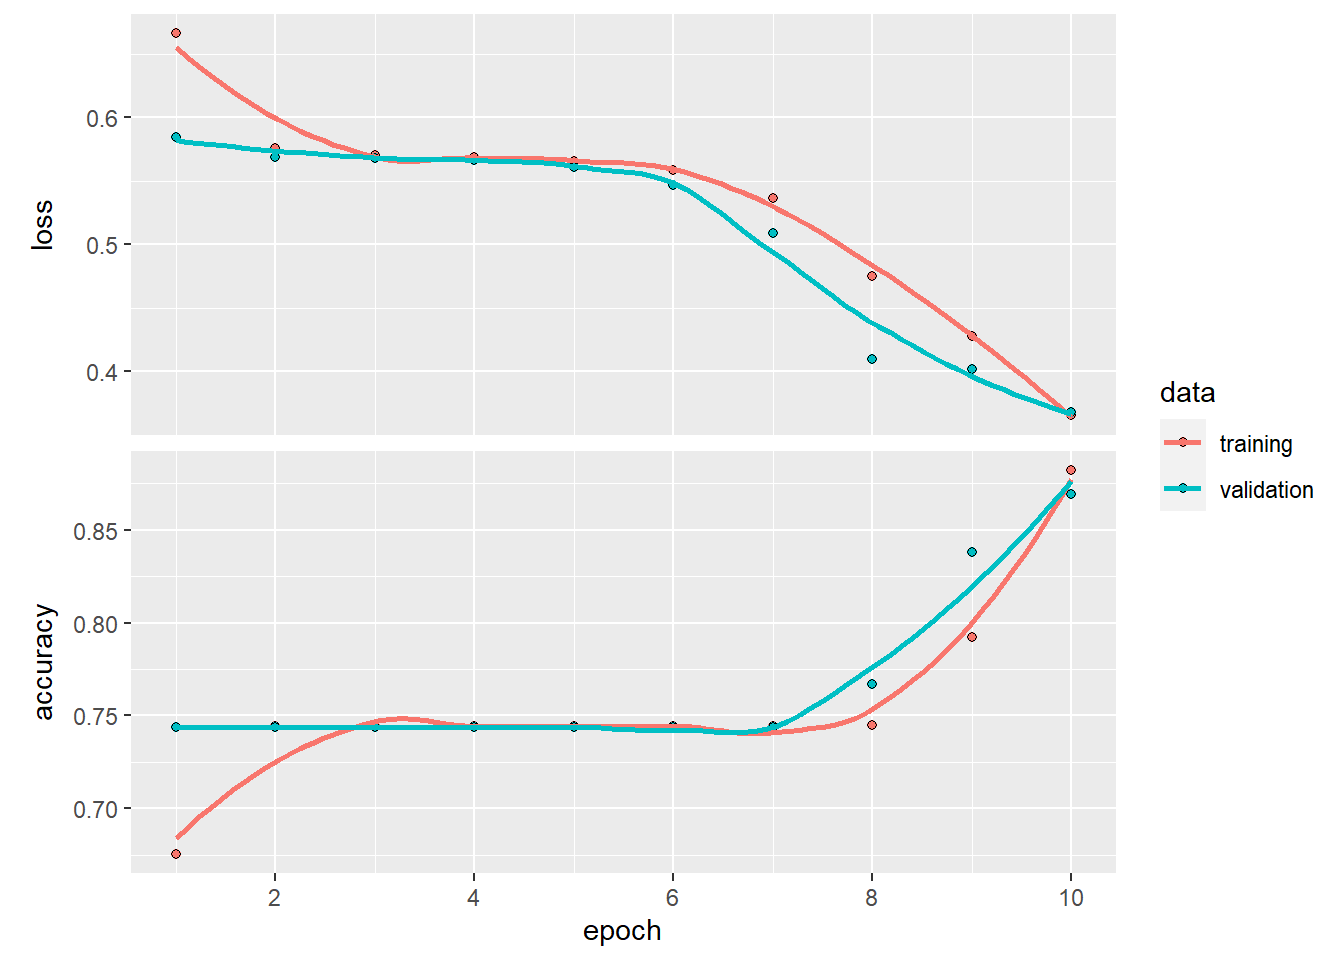
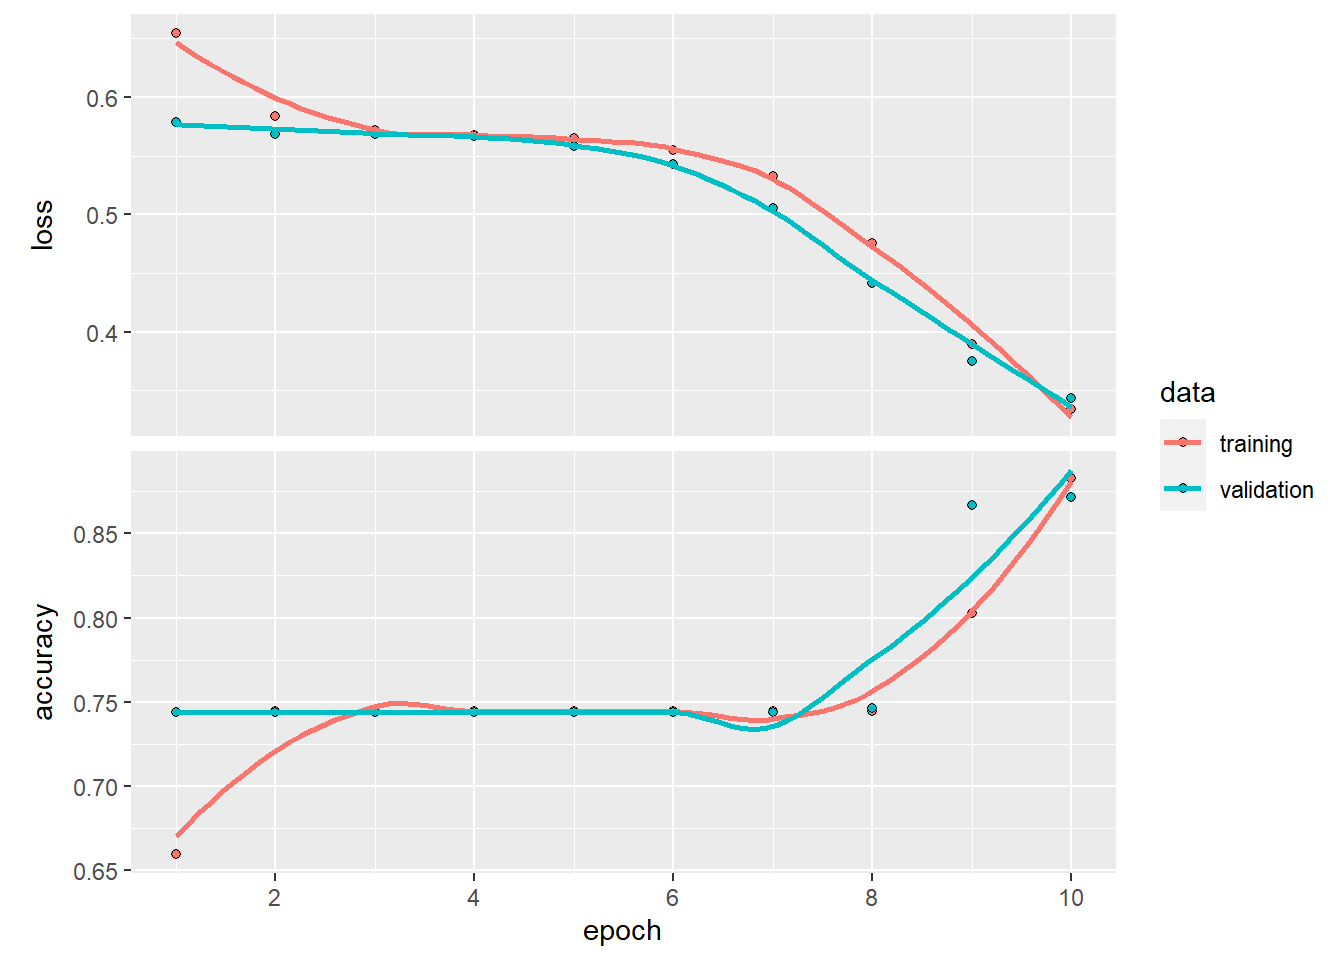
Juhu fertig

diff --git a/_site/posts/DataScience2_Abgabe/Abgabe.html b/_site/posts/DataScience2_Abgabe/Abgabe.html
@@ -337,6 +337,8 @@ code span.wa { color: #60a0b0; font-weight: bold; font-style: italic; } /* Warni
 <span id="cb5-5"><a href="#cb5-5" aria-hidden="true" tabindex="-1"></a>  <span class="fu">anti_join</span>(stop_words, <span class="at">by =</span> <span class="fu">c</span>(<span class="st">"words"</span> <span class="ot">=</span> <span class="st">"word"</span>))</span></code><button title="Copy to Clipboard" class="code-copy-button"><i class="bi"></i></button></pre></div>
 </div>
 <div class="cell">
+<details>
+<summary>Show the Code</summary>
 <div class="sourceCode cell-code" id="cb6"><pre class="sourceCode r code-with-copy"><code class="sourceCode r"><span id="cb6-1"><a href="#cb6-1" aria-hidden="true" tabindex="-1"></a><span class="do">## die 15 häufigsten Wörter</span></span>
 <span id="cb6-2"><a href="#cb6-2" aria-hidden="true" tabindex="-1"></a>df_hate <span class="sc">%&gt;%</span></span>
 <span id="cb6-3"><a href="#cb6-3" aria-hidden="true" tabindex="-1"></a>  <span class="fu">count</span>(words, <span class="at">sort =</span> <span class="cn">TRUE</span>) <span class="sc">%&gt;%</span></span>
@@ -350,6 +352,7 @@ code span.wa { color: #60a0b0; font-weight: bold; font-style: italic; } /* Warni
 <span id="cb6-11"><a href="#cb6-11" aria-hidden="true" tabindex="-1"></a>      <span class="at">y =</span> <span class="st">"Anzahl"</span>,</span>
 <span id="cb6-12"><a href="#cb6-12" aria-hidden="true" tabindex="-1"></a>      <span class="at">title =</span> <span class="st">"Die 15 häufigsten Wörter"</span>) <span class="sc">+</span></span>
 <span id="cb6-13"><a href="#cb6-13" aria-hidden="true" tabindex="-1"></a>  <span class="fu">theme_minimal</span>()</span></code><button title="Copy to Clipboard" class="code-copy-button"><i class="bi"></i></button></pre></div>
+</details>
 <div class="cell-output-display">
 <p><img src="Abgabe_files/figure-html/unnamed-chunk-4-1.png" class="img-fluid" width="672"></p>
 </div>
@@ -487,7 +490,7 @@ code span.wa { color: #60a0b0; font-weight: bold; font-style: italic; } /* Warni
 <section id="wortbeziehungen-bigram" class="level3">
 <h3 class="anchored" data-anchor-id="wortbeziehungen-bigram">2.3 Wortbeziehungen (Bigram)</h3>
 <p>Die am häufigsten vorkommenden Wortpaare sind in folgender interaktiven Graphik zu sehen.</p>
-<p><em>Navigation:</em> rechte Maustaste: bewegen; Mausrad: zoomen</p>
+<p><em>Navigation:</em> linke Maustaste: bewegen; Mausrad: zoomen</p>
 <div class="cell">
 <details>
 <summary>Show the Code</summary>
@@ -620,7 +623,7 @@ code span.wa { color: #60a0b0; font-weight: bold; font-style: italic; } /* Warni
 </section>
 <section id="rekurrentes-neuronales-netzwerk" class="level2">
 <h2 class="anchored" data-anchor-id="rekurrentes-neuronales-netzwerk">4 Rekurrentes Neuronales Netzwerk</h2>
-<p>Das LSTM (Long Short-Term Memory) Modell ist eine spezielle Form von Rekurrenten Neuronalen Netzwerken (RNNs), die besonders gut für die Verarbeitung von Sequenzdaten wie Texten geeignet ist.</p>
+<p>Das LSTM (Long Short-Term Memory) Modell ist eine spezielle Form der Rekurrenten Neuronalen Netzwerke (RNNs), die besonders gut für die Verarbeitung von Sequenzdaten wie Texten geeignet sind.</p>
 <section id="lstm-modell-erstellen" class="level3">
 <h3 class="anchored" data-anchor-id="lstm-modell-erstellen">4.1 LSTM Modell erstellen</h3>
 <div class="cell">
@@ -759,74 +762,74 @@ ________________________________________________________________________________
 <div class="cell-output cell-output-stdout">
 <pre><code>Epoch 1/10
 
-1/4 [======&gt;.......................] - ETA: 16s - loss: 0.6931 - accuracy: 0.5225
-2/4 [==============&gt;...............] - ETA: 1s - loss: 0.6563 - accuracy: 0.6309 
-3/4 [=====================&gt;........] - ETA: 0s - loss: 0.6766 - accuracy: 0.6660
-4/4 [==============================] - ETA: 0s - loss: 0.6660 - accuracy: 0.6753
-4/4 [==============================] - 8s 828ms/step - loss: 0.6660 - accuracy: 0.6753 - val_loss: 0.5842 - val_accuracy: 0.7440
+1/4 [======&gt;.......................] - ETA: 16s - loss: 0.6935 - accuracy: 0.4658
+2/4 [==============&gt;...............] - ETA: 1s - loss: 0.6747 - accuracy: 0.5962 
+3/4 [=====================&gt;........] - ETA: 0s - loss: 0.6550 - accuracy: 0.6484
+4/4 [==============================] - ETA: 0s - loss: 0.6543 - accuracy: 0.6595
+4/4 [==============================] - 8s 833ms/step - loss: 0.6543 - accuracy: 0.6595 - val_loss: 0.5791 - val_accuracy: 0.7440
 Epoch 2/10
 
-1/4 [======&gt;.......................] - ETA: 2s - loss: 0.5827 - accuracy: 0.7461
-2/4 [==============&gt;...............] - ETA: 1s - loss: 0.5771 - accuracy: 0.7441
-3/4 [=====================&gt;........] - ETA: 0s - loss: 0.5778 - accuracy: 0.7428
-4/4 [==============================] - ETA: 0s - loss: 0.5758 - accuracy: 0.7445
-4/4 [==============================] - 3s 687ms/step - loss: 0.5758 - accuracy: 0.7445 - val_loss: 0.5687 - val_accuracy: 0.7440
+1/4 [======&gt;.......................] - ETA: 2s - loss: 0.5681 - accuracy: 0.7559
+2/4 [==============&gt;...............] - ETA: 1s - loss: 0.5920 - accuracy: 0.7373
+3/4 [=====================&gt;........] - ETA: 0s - loss: 0.5875 - accuracy: 0.7419
+4/4 [==============================] - ETA: 0s - loss: 0.5836 - accuracy: 0.7445
+4/4 [==============================] - 3s 682ms/step - loss: 0.5836 - accuracy: 0.7445 - val_loss: 0.5684 - val_accuracy: 0.7440
 Epoch 3/10
 
-1/4 [======&gt;.......................] - ETA: 2s - loss: 0.5599 - accuracy: 0.7529
-2/4 [==============&gt;...............] - ETA: 1s - loss: 0.5723 - accuracy: 0.7417
-3/4 [=====================&gt;........] - ETA: 0s - loss: 0.5726 - accuracy: 0.7419
-4/4 [==============================] - ETA: 0s - loss: 0.5699 - accuracy: 0.7445
-4/4 [==============================] - 3s 681ms/step - loss: 0.5699 - accuracy: 0.7445 - val_loss: 0.5680 - val_accuracy: 0.7440
+1/4 [======&gt;.......................] - ETA: 2s - loss: 0.5577 - accuracy: 0.7539
+2/4 [==============&gt;...............] - ETA: 1s - loss: 0.5578 - accuracy: 0.7549
+3/4 [=====================&gt;........] - ETA: 0s - loss: 0.5733 - accuracy: 0.7435
+4/4 [==============================] - ETA: 0s - loss: 0.5720 - accuracy: 0.7445
+4/4 [==============================] - 3s 675ms/step - loss: 0.5720 - accuracy: 0.7445 - val_loss: 0.5688 - val_accuracy: 0.7440
 Epoch 4/10
 
-1/4 [======&gt;.......................] - ETA: 2s - loss: 0.5797 - accuracy: 0.7354
-2/4 [==============&gt;...............] - ETA: 1s - loss: 0.5745 - accuracy: 0.7388
-3/4 [=====================&gt;........] - ETA: 0s - loss: 0.5703 - accuracy: 0.7428
-4/4 [==============================] - ETA: 0s - loss: 0.5686 - accuracy: 0.7445
-4/4 [==============================] - 3s 669ms/step - loss: 0.5686 - accuracy: 0.7445 - val_loss: 0.5661 - val_accuracy: 0.7440
+1/4 [======&gt;.......................] - ETA: 2s - loss: 0.5885 - accuracy: 0.7256
+2/4 [==============&gt;...............] - ETA: 1s - loss: 0.5644 - accuracy: 0.7485
+3/4 [=====================&gt;........] - ETA: 0s - loss: 0.5679 - accuracy: 0.7445
+4/4 [==============================] - ETA: 0s - loss: 0.5675 - accuracy: 0.7445
+4/4 [==============================] - 3s 674ms/step - loss: 0.5675 - accuracy: 0.7445 - val_loss: 0.5665 - val_accuracy: 0.7440
 Epoch 5/10
 
-1/4 [======&gt;.......................] - ETA: 2s - loss: 0.5641 - accuracy: 0.7471
-2/4 [==============&gt;...............] - ETA: 1s - loss: 0.5671 - accuracy: 0.7437
-3/4 [=====================&gt;........] - ETA: 0s - loss: 0.5660 - accuracy: 0.7441
-4/4 [==============================] - ETA: 0s - loss: 0.5655 - accuracy: 0.7445
-4/4 [==============================] - 3s 672ms/step - loss: 0.5655 - accuracy: 0.7445 - val_loss: 0.5610 - val_accuracy: 0.7440
+1/4 [======&gt;.......................] - ETA: 2s - loss: 0.5616 - accuracy: 0.7500
+2/4 [==============&gt;...............] - ETA: 1s - loss: 0.5646 - accuracy: 0.7461
+3/4 [=====================&gt;........] - ETA: 0s - loss: 0.5628 - accuracy: 0.7467
+4/4 [==============================] - ETA: 0s - loss: 0.5649 - accuracy: 0.7445
+4/4 [==============================] - 3s 685ms/step - loss: 0.5649 - accuracy: 0.7445 - val_loss: 0.5580 - val_accuracy: 0.7440
 Epoch 6/10
 
-1/4 [======&gt;.......................] - ETA: 2s - loss: 0.5621 - accuracy: 0.7461
-2/4 [==============&gt;...............] - ETA: 1s - loss: 0.5582 - accuracy: 0.7476
-3/4 [=====================&gt;........] - ETA: 0s - loss: 0.5590 - accuracy: 0.7448
-4/4 [==============================] - ETA: 0s - loss: 0.5583 - accuracy: 0.7445
-4/4 [==============================] - 3s 683ms/step - loss: 0.5583 - accuracy: 0.7445 - val_loss: 0.5464 - val_accuracy: 0.7440
+1/4 [======&gt;.......................] - ETA: 2s - loss: 0.5513 - accuracy: 0.7520
+2/4 [==============&gt;...............] - ETA: 1s - loss: 0.5411 - accuracy: 0.7588
+3/4 [=====================&gt;........] - ETA: 0s - loss: 0.5502 - accuracy: 0.7490
+4/4 [==============================] - ETA: 0s - loss: 0.5545 - accuracy: 0.7445
+4/4 [==============================] - 3s 668ms/step - loss: 0.5545 - accuracy: 0.7445 - val_loss: 0.5425 - val_accuracy: 0.7440
 Epoch 7/10
 
-1/4 [======&gt;.......................] - ETA: 2s - loss: 0.5298 - accuracy: 0.7607
-2/4 [==============&gt;...............] - ETA: 1s - loss: 0.5517 - accuracy: 0.7358
-3/4 [=====================&gt;........] - ETA: 0s - loss: 0.5427 - accuracy: 0.7402
-4/4 [==============================] - ETA: 0s - loss: 0.5362 - accuracy: 0.7445
-4/4 [==============================] - 3s 672ms/step - loss: 0.5362 - accuracy: 0.7445 - val_loss: 0.5089 - val_accuracy: 0.7440
+1/4 [======&gt;.......................] - ETA: 2s - loss: 0.5356 - accuracy: 0.7490
+2/4 [==============&gt;...............] - ETA: 1s - loss: 0.5434 - accuracy: 0.7388
+3/4 [=====================&gt;........] - ETA: 0s - loss: 0.5335 - accuracy: 0.7454
+4/4 [==============================] - ETA: 0s - loss: 0.5325 - accuracy: 0.7445
+4/4 [==============================] - 3s 673ms/step - loss: 0.5325 - accuracy: 0.7445 - val_loss: 0.5053 - val_accuracy: 0.7440
 Epoch 8/10
 
-1/4 [======&gt;.......................] - ETA: 2s - loss: 0.4887 - accuracy: 0.7568
-2/4 [==============&gt;...............] - ETA: 1s - loss: 0.4825 - accuracy: 0.7520
-3/4 [=====================&gt;........] - ETA: 0s - loss: 0.4780 - accuracy: 0.7454
-4/4 [==============================] - ETA: 0s - loss: 0.4749 - accuracy: 0.7448
-4/4 [==============================] - 3s 673ms/step - loss: 0.4749 - accuracy: 0.7448 - val_loss: 0.4099 - val_accuracy: 0.7667
+1/4 [======&gt;.......................] - ETA: 2s - loss: 0.4946 - accuracy: 0.7480
+2/4 [==============&gt;...............] - ETA: 1s - loss: 0.4917 - accuracy: 0.7397
+3/4 [=====================&gt;........] - ETA: 0s - loss: 0.4801 - accuracy: 0.7435
+4/4 [==============================] - ETA: 0s - loss: 0.4754 - accuracy: 0.7445
+4/4 [==============================] - 3s 667ms/step - loss: 0.4754 - accuracy: 0.7445 - val_loss: 0.4414 - val_accuracy: 0.7464
 Epoch 9/10
 
-1/4 [======&gt;.......................] - ETA: 2s - loss: 0.4054 - accuracy: 0.7646
-2/4 [==============&gt;...............] - ETA: 1s - loss: 0.4114 - accuracy: 0.7974
-3/4 [=====================&gt;........] - ETA: 0s - loss: 0.4231 - accuracy: 0.7923
-4/4 [==============================] - ETA: 0s - loss: 0.4277 - accuracy: 0.7922
-4/4 [==============================] - 3s 673ms/step - loss: 0.4277 - accuracy: 0.7922 - val_loss: 0.4019 - val_accuracy: 0.8381
+1/4 [======&gt;.......................] - ETA: 2s - loss: 0.4158 - accuracy: 0.7480
+2/4 [==============&gt;...............] - ETA: 1s - loss: 0.3956 - accuracy: 0.7812
+3/4 [=====================&gt;........] - ETA: 0s - loss: 0.3909 - accuracy: 0.7965
+4/4 [==============================] - ETA: 0s - loss: 0.3891 - accuracy: 0.8029
+4/4 [==============================] - 3s 665ms/step - loss: 0.3891 - accuracy: 0.8029 - val_loss: 0.3747 - val_accuracy: 0.8667
 Epoch 10/10
 
-1/4 [======&gt;.......................] - ETA: 2s - loss: 0.3783 - accuracy: 0.8506
-2/4 [==============&gt;...............] - ETA: 1s - loss: 0.3591 - accuracy: 0.8809
-3/4 [=====================&gt;........] - ETA: 0s - loss: 0.3648 - accuracy: 0.8818
-4/4 [==============================] - ETA: 0s - loss: 0.3654 - accuracy: 0.8819
-4/4 [==============================] - 3s 679ms/step - loss: 0.3654 - accuracy: 0.8819 - val_loss: 0.3678 - val_accuracy: 0.8690</code></pre>
+1/4 [======&gt;.......................] - ETA: 2s - loss: 0.3502 - accuracy: 0.8760
+2/4 [==============&gt;...............] - ETA: 1s - loss: 0.3474 - accuracy: 0.8799
+3/4 [=====================&gt;........] - ETA: 0s - loss: 0.3331 - accuracy: 0.8844
+4/4 [==============================] - ETA: 0s - loss: 0.3344 - accuracy: 0.8831
+4/4 [==============================] - 3s 672ms/step - loss: 0.3344 - accuracy: 0.8831 - val_loss: 0.3434 - val_accuracy: 0.8714</code></pre>
 </div>
 <div class="sourceCode cell-code" id="cb26"><pre class="sourceCode r code-with-copy"><code class="sourceCode r"><span id="cb26-1"><a href="#cb26-1" aria-hidden="true" tabindex="-1"></a><span class="co"># history plot</span></span>
 <span id="cb26-2"><a href="#cb26-2" aria-hidden="true" tabindex="-1"></a><span class="fu">plot</span>(history)</span></code><button title="Copy to Clipboard" class="code-copy-button"><i class="bi"></i></button></pre></div>
@@ -835,7 +838,7 @@ Epoch 10/10
 </div>
 <div class="sourceCode cell-code" id="cb27"><pre class="sourceCode r code-with-copy"><code class="sourceCode r"><span id="cb27-1"><a href="#cb27-1" aria-hidden="true" tabindex="-1"></a><span class="fu">toc</span>()</span></code><button title="Copy to Clipboard" class="code-copy-button"><i class="bi"></i></button></pre></div>
 <div class="cell-output cell-output-stdout">
-<pre><code>34.05 sec elapsed</code></pre>
+<pre><code>33.88 sec elapsed</code></pre>
 </div>
 </div>
 </section>
@@ -856,7 +859,7 @@ Epoch 10/10
 <span id="cb29-5"><a href="#cb29-5" aria-hidden="true" tabindex="-1"></a>  <span class="fu">as.vector</span>()</span></code><button title="Copy to Clipboard" class="code-copy-button"><i class="bi"></i></button></pre></div>
 </details>
 <div class="cell-output cell-output-stdout">
-<pre><code>105/105 - 2s - 2s/epoch - 17ms/step</code></pre>
+<pre><code>105/105 - 2s - 2s/epoch - 16ms/step</code></pre>
 </div>
 <details>
 <summary>Show the Code</summary>
@@ -872,13 +875,13 @@ Epoch 10/10
 </details>
 <div class="cell-output cell-output-stdout">
 <pre><code>         Sensitivity          Specificity       Pos Pred Value 
-                97.3                 75.1                 91.9 
+                94.1                 85.1                 94.8 
       Neg Pred Value            Precision               Recall 
-                90.4                 91.9                 97.3 
+                83.2                 94.8                 94.1 
                   F1           Prevalence       Detection Rate 
-                94.5                 74.4                 72.4 
+                94.5                 74.4                 70.1 
 Detection Prevalence    Balanced Accuracy 
-                78.8                 86.2 </code></pre>
+                73.9                 89.6 </code></pre>
 </div>
 </div>
 </div>
@@ -893,7 +896,7 @@ Detection Prevalence    Balanced Accuracy
 <span id="cb33-5"><a href="#cb33-5" aria-hidden="true" tabindex="-1"></a>  <span class="fu">as.vector</span>()</span></code><button title="Copy to Clipboard" class="code-copy-button"><i class="bi"></i></button></pre></div>
 </details>
 <div class="cell-output cell-output-stdout">
-<pre><code>27/27 - 0s - 340ms/epoch - 13ms/step</code></pre>
+<pre><code>27/27 - 0s - 332ms/epoch - 12ms/step</code></pre>
 </div>
 <details>
 <summary>Show the Code</summary>
@@ -909,13 +912,13 @@ Detection Prevalence    Balanced Accuracy
 </details>
 <div class="cell-output cell-output-stdout">
 <pre><code>         Sensitivity          Specificity       Pos Pred Value 
-                95.0                 63.3                 88.3 
+                91.4                 74.9                 91.4 
       Neg Pred Value            Precision               Recall 
-                81.4                 88.3                 95.0 
+                74.9                 91.4                 91.4 
                   F1           Prevalence       Detection Rate 
-                91.5                 74.4                 70.7 
+                91.4                 74.4                 68.0 
 Detection Prevalence    Balanced Accuracy 
-                80.1                 79.1 </code></pre>
+                74.4                 83.1 </code></pre>
 </div>
 </div>
 </div>
@@ -930,7 +933,7 @@ Detection Prevalence    Balanced Accuracy
 <span id="cb37-5"><a href="#cb37-5" aria-hidden="true" tabindex="-1"></a>  <span class="fu">as.vector</span>()</span></code><button title="Copy to Clipboard" class="code-copy-button"><i class="bi"></i></button></pre></div>
 </details>
 <div class="cell-output cell-output-stdout">
-<pre><code>44/44 - 1s - 535ms/epoch - 12ms/step</code></pre>
+<pre><code>44/44 - 1s - 553ms/epoch - 13ms/step</code></pre>
 </div>
 <details>
 <summary>Show the Code</summary>
@@ -946,13 +949,13 @@ Detection Prevalence    Balanced Accuracy
 </details>
 <div class="cell-output cell-output-stdout">
 <pre><code>         Sensitivity          Specificity       Pos Pred Value 
-                95.8                 64.2                 88.6 
+                92.8                 79.3                 92.9 
       Neg Pred Value            Precision               Recall 
-                83.9                 88.6                 95.8 
+                79.1                 92.9                 92.8 
                   F1           Prevalence       Detection Rate 
-                92.1                 74.4                 71.3 
+                92.8                 74.4                 69.0 
 Detection Prevalence    Balanced Accuracy 
-                80.4                 80.0 </code></pre>
+                74.3                 86.1 </code></pre>
 </div>
 </div>
 </div>
@@ -1047,7 +1050,7 @@ Detection Prevalence    Balanced Accuracy
 <span id="cb43-10"><a href="#cb43-10" aria-hidden="true" tabindex="-1"></a><span class="fu">toc</span>()</span></code><button title="Copy to Clipboard" class="code-copy-button"><i class="bi"></i></button></pre></div>
 </details>
 <div class="cell-output cell-output-stdout">
-<pre><code>9.61 sec elapsed</code></pre>
+<pre><code>9.92 sec elapsed</code></pre>
 </div>
 <details>
 <summary>Show the Code</summary>
@@ -1058,7 +1061,7 @@ Detection Prevalence    Balanced Accuracy
 <span id="cb45-5"><a href="#cb45-5" aria-hidden="true" tabindex="-1"></a><span class="fu">toc</span>()</span></code><button title="Copy to Clipboard" class="code-copy-button"><i class="bi"></i></button></pre></div>
 </details>
 <div class="cell-output cell-output-stdout">
-<pre><code>1.54 sec elapsed</code></pre>
+<pre><code>1.77 sec elapsed</code></pre>
 </div>
 <details>
 <summary>Show the Code</summary>
@@ -1098,7 +1101,7 @@ Detection Prevalence    Balanced Accuracy
 <span id="cb48-10"><a href="#cb48-10" aria-hidden="true" tabindex="-1"></a><span class="fu">toc</span>()</span></code><button title="Copy to Clipboard" class="code-copy-button"><i class="bi"></i></button></pre></div>
 </details>
 <div class="cell-output cell-output-stdout">
-<pre><code>8.94 sec elapsed</code></pre>
+<pre><code>8.54 sec elapsed</code></pre>
 </div>
 <details>
 <summary>Show the Code</summary>
@@ -1109,7 +1112,7 @@ Detection Prevalence    Balanced Accuracy
 <span id="cb50-5"><a href="#cb50-5" aria-hidden="true" tabindex="-1"></a><span class="fu">toc</span>()</span></code><button title="Copy to Clipboard" class="code-copy-button"><i class="bi"></i></button></pre></div>
 </details>
 <div class="cell-output cell-output-stdout">
-<pre><code>1.47 sec elapsed</code></pre>
+<pre><code>1.49 sec elapsed</code></pre>
 </div>
 <details>
 <summary>Show the Code</summary>
@@ -1149,7 +1152,7 @@ Detection Prevalence    Balanced Accuracy
 <span id="cb53-10"><a href="#cb53-10" aria-hidden="true" tabindex="-1"></a><span class="fu">toc</span>()</span></code><button title="Copy to Clipboard" class="code-copy-button"><i class="bi"></i></button></pre></div>
 </details>
 <div class="cell-output cell-output-stdout">
-<pre><code>8.31 sec elapsed</code></pre>
+<pre><code>8.25 sec elapsed</code></pre>
 </div>
 <details>
 <summary>Show the Code</summary>
@@ -1160,7 +1163,7 @@ Detection Prevalence    Balanced Accuracy
 <span id="cb55-5"><a href="#cb55-5" aria-hidden="true" tabindex="-1"></a><span class="fu">toc</span>()</span></code><button title="Copy to Clipboard" class="code-copy-button"><i class="bi"></i></button></pre></div>
 </details>
 <div class="cell-output cell-output-stdout">
-<pre><code>1.37 sec elapsed</code></pre>
+<pre><code>1.36 sec elapsed</code></pre>
 </div>
 <details>
 <summary>Show the Code</summary>
@@ -1210,7 +1213,7 @@ Detection Prevalence    Balanced Accuracy
 <span id="cb58-10"><a href="#cb58-10" aria-hidden="true" tabindex="-1"></a><span class="fu">toc</span>()</span></code><button title="Copy to Clipboard" class="code-copy-button"><i class="bi"></i></button></pre></div>
 </details>
 <div class="cell-output cell-output-stdout">
-<pre><code>154.45 sec elapsed</code></pre>
+<pre><code>151.19 sec elapsed</code></pre>
 </div>
 <details>
 <summary>Show the Code</summary>
@@ -1246,7 +1249,7 @@ Detection Prevalence    Balanced Accuracy
 <span id="cb61-10"><a href="#cb61-10" aria-hidden="true" tabindex="-1"></a><span class="fu">toc</span>()</span></code><button title="Copy to Clipboard" class="code-copy-button"><i class="bi"></i></button></pre></div>
 </details>
 <div class="cell-output cell-output-stdout">
-<pre><code>85.89 sec elapsed</code></pre>
+<pre><code>85.98 sec elapsed</code></pre>
 </div>
 <details>
 <summary>Show the Code</summary>
@@ -1282,7 +1285,7 @@ Detection Prevalence    Balanced Accuracy
 <span id="cb64-10"><a href="#cb64-10" aria-hidden="true" tabindex="-1"></a><span class="fu">toc</span>()</span></code><button title="Copy to Clipboard" class="code-copy-button"><i class="bi"></i></button></pre></div>
 </details>
 <div class="cell-output cell-output-stdout">
-<pre><code>205.83 sec elapsed</code></pre>
+<pre><code>204.5 sec elapsed</code></pre>
 </div>
 <details>
 <summary>Show the Code</summary>
@@ -1290,7 +1293,7 @@ Detection Prevalence    Balanced Accuracy
 <span id="cb66-2"><a href="#cb66-2" aria-hidden="true" tabindex="-1"></a>best_model_xgb <span class="ot">&lt;-</span> <span class="fu">fit_best</span>(xgb_tune)</span></code><button title="Copy to Clipboard" class="code-copy-button"><i class="bi"></i></button></pre></div>
 </details>
 <div class="cell-output cell-output-stdout">
-<pre><code>[21:39:26] WARNING: src/learner.cc:767: 
+<pre><code>[22:07:42] WARNING: src/learner.cc:767: 
 Parameters: { "nthreads" } are not used.</code></pre>
 </div>
 <details>
@@ -1310,7 +1313,7 @@ Parameters: { "nthreads" } are not used.</code></pre>
 </div>
 </div>
 </div>
-<p>Wenn man die Accuracy zwischen den optimierten und den nicht optimierten Modellen vergleicht, sind diese kaum besser oder gleich gut. Folglich kann man sich in diesem Fall den erhöhten Zeitaufwand, der durch das Tuning entsteht, sparen.</p>
+<p>Wenn man die Accuracy zwischen den optimierten und den nicht optimierten Modellen vergleicht, ist diese kaum besser oder gleich gut. Folglich kann man sich in diesem Fall den erhöhten Zeitaufwand, der durch das Tuning entsteht, sparen.</p>
 </section>
 </section>
 <section id="fazit" class="level2">

diff --git a/_site/index.html b/_site/index.html
@@ -161,7 +161,7 @@ ul.task-list li input[type="checkbox"] {
 
 <div class="quarto-listing quarto-listing-container-default" id="listing-listing">
 <div class="list quarto-listing-default">
-<div class="quarto-post image-right" data-index="0" data-categories="Textanalyse,Tidymodels,Klassifikation,Transformers,Neuronale Netze" data-listing-date-sort="1707433200000" data-listing-file-modified-sort="1707510488429" data-listing-reading-time-sort="14.73">
+<div class="quarto-post image-right" data-index="0" data-categories="Textanalyse,Tidymodels,Klassifikation,Transformers,Neuronale Netze" data-listing-date-sort="1707433200000" data-listing-file-modified-sort="1707512143934" data-listing-reading-time-sort="14.76">
 <div class="thumbnail">
 <p><a href="./posts/DataScience2_Abgabe/Abgabe.html"> <img src="./posts/DataScience2_Abgabe/HateTastatur.jpeg" class="thumnail-image"> </a></p>
 </div>
